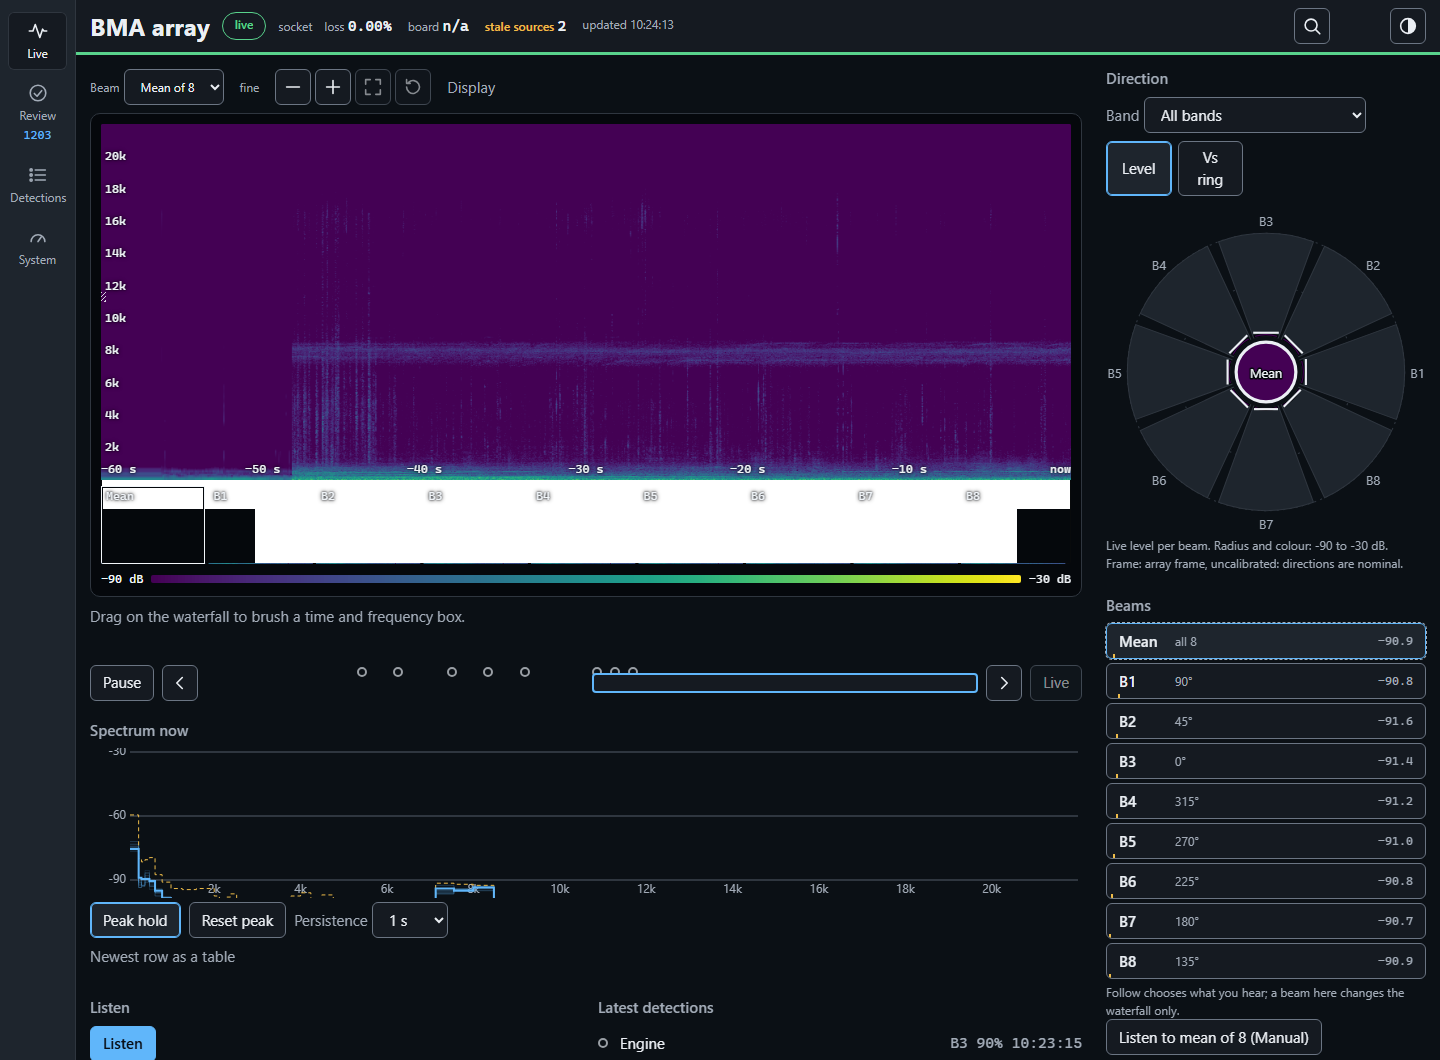
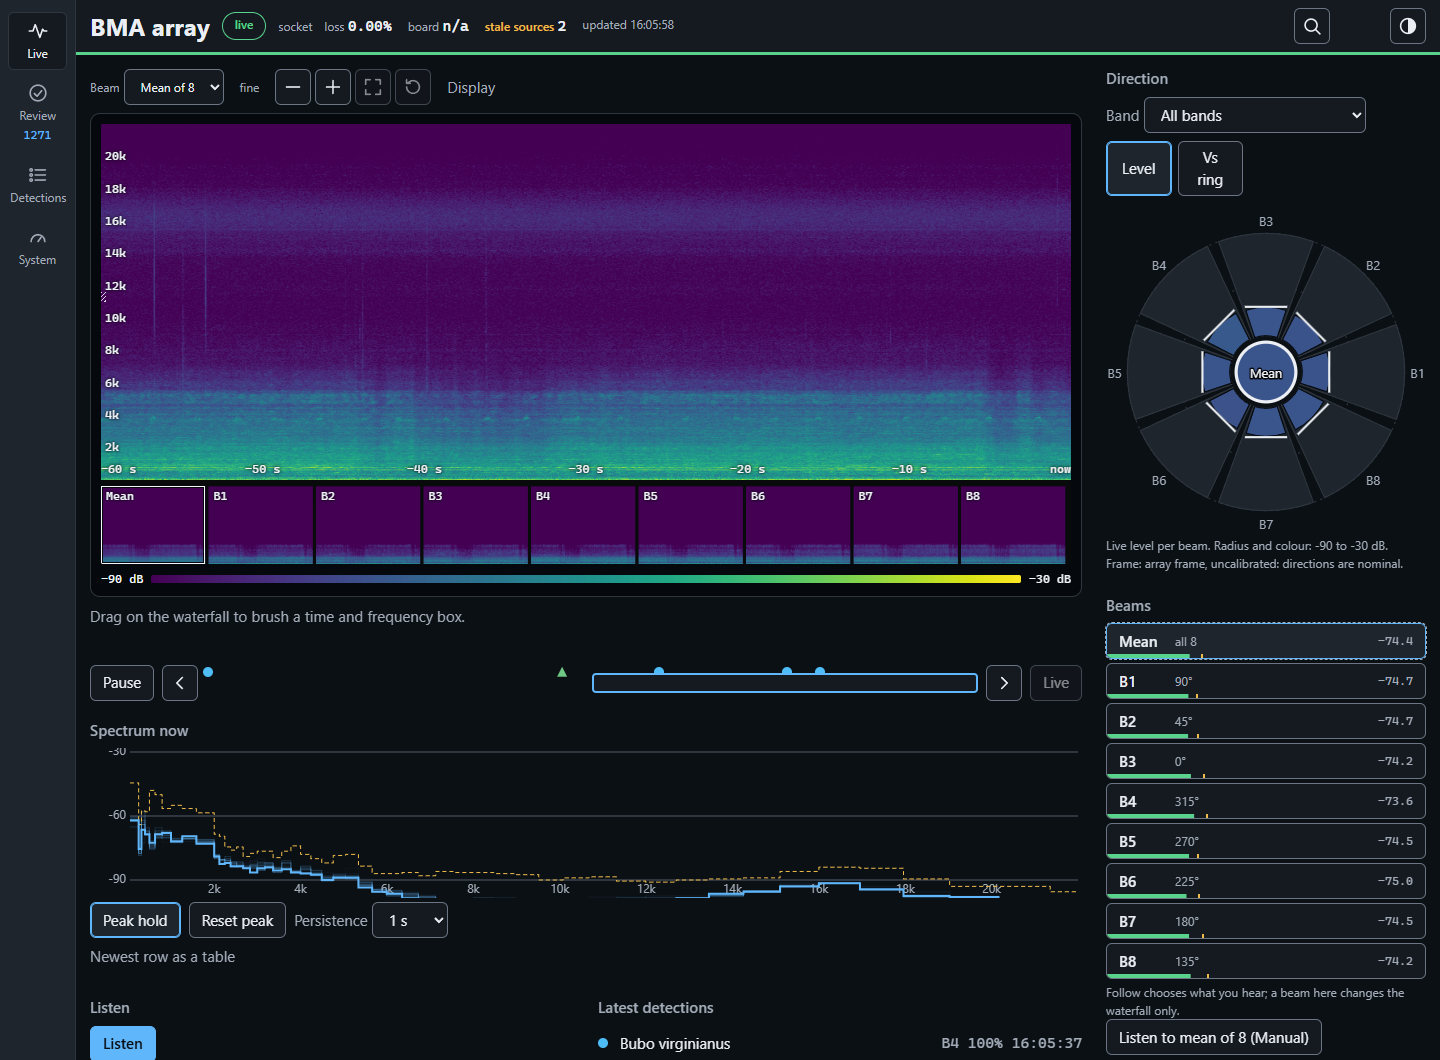
Part 9 draft: new live-view screenshot, caption the 100% score
Re-shot p09-live (light and dark) with a full 60 s waterfall and the
per-beam strip populated. The caption now says the 100% on the
detection row is a sigmoid of the classifier's raw score, a ranking
and not a confidence.

fig_p09_screens.py: launch full Chromium (the headless shell renders
the WebGL strip blank), poll until every tile is painted instead of a
fixed sleep, and allow BMA_SHOTS_DIR / BMA_FIGURES_DIR overrides.

diff --git a/_figures/fig_p09_screens.py b/_figures/fig_p09_screens.py
@@ -19,10 +19,19 @@ import os
 import sys
 from pathlib import Path
 
-sys.path.insert(0, str(Path(__file__).resolve().parent))
-from bmafig import THEMES, out_path  # noqa: E402
+sys.path.insert(0, os.environ.get("BMA_FIGURES_DIR", str(Path(__file__).resolve().parent)))
+from bmafig import THEMES, out_path as _repo_out_path  # noqa: E402
+
+
+def out_path(name, theme, ext="svg"):
+    """BMA_SHOTS_DIR redirects captures away from images/bma/ (e.g. for review before copying)."""
+    d = os.environ.get("BMA_SHOTS_DIR")
+    return Path(d) / f"{name}-{theme}.{ext}" if d else _repo_out_path(name, theme, ext)
+
 
 URL = "https://127.0.0.1:48500/"
+TILE_FILL_MIN = 0.90      # every per-beam tile must be at least this fraction painted
+TILE_TIMEOUT_S = 600
 SHOTS = ("p09-live", "p09-det", "p09-targets", "p09-fleet", "p09-sys")
 
 SCRUB_JS = r"""() => {
@@ -76,6 +85,53 @@ def _scrub(pg):
         raise RuntimeError("unmasked text matched %s; not saving" % leaks)
 
 
+def _tile_fill(pg):
+    """Painted fraction of each per-beam tile under the waterfall. The tiles are drawn into the WebGL canvas, so this
+    measures the composited screenshot of each .tile box. A pixel counts as painted when it is a colormap colour
+    (channel spread max-min > 25); the unpainted strip is white or near-black (grey, spread ~0). A column counts as
+    live when its painted pixels also vary (luminance std > 2), so a flat no-data fill does not pass.
+    Returns [(painted_fraction, live_column_fraction)] per tile."""
+    import io
+    import numpy as np
+    from PIL import Image
+
+    # crop the same viewport screenshot that gets saved (page at scroll 0, so bounding_box() == image coords):
+    # an element screenshot can show the strip while the full viewport capture does not
+    shot = np.asarray(Image.open(io.BytesIO(pg.screenshot())).convert("RGB")).astype(np.int16)
+    fills = []
+    for t in pg.locator("#tiles .tile").all():
+        bb = t.bounding_box()
+        if not bb or bb["width"] < 8 or bb["height"] < 8:
+            fills.append((0.0, 0.0))
+            continue
+        x0, y0 = int(bb["x"]) + 2, int(bb["y"]) + 2
+        im = shot[y0:int(bb["y"] + bb["height"]) - 2, x0:int(bb["x"] + bb["width"]) - 2]
+        painted = (im.max(axis=2) - im.min(axis=2)) > 25
+        lum = im.mean(axis=2)
+        live_cols = (painted.mean(axis=0) > 0.9) & (lum.std(axis=0) > 2)
+        fills.append((float(painted.mean()), float(live_cols.mean())))
+    return fills
+
+
+def _wait_tiles(pg, theme):
+    """Poll until every per-beam tile is painted (no fixed sleep). Raises on timeout."""
+    import time
+
+    pg.wait_for_selector("#tiles .tile", state="attached", timeout=60000)
+    pg.evaluate("window.scrollTo(0, 0)")
+    t0 = time.monotonic()
+    while True:
+        f = _tile_fill(pg)
+        el = time.monotonic() - t0
+        print(f"[{theme}] t={el:5.0f}s tiles={len(f)} painted/live "
+              f"[{' '.join('%.2f/%.2f' % x for x in f)}]", flush=True)
+        if len(f) == 9 and min(min(x) for x in f) >= TILE_FILL_MIN:
+            return f
+        if el > TILE_TIMEOUT_S:
+            raise RuntimeError(f"per-beam strip not populated after {TILE_TIMEOUT_S} s; not saving")
+        pg.wait_for_timeout(5000)
+
+
 def _open_panel(pg, pid):
     pg.click('button[data-view="live"]')
     pg.wait_for_timeout(800)
@@ -108,17 +164,20 @@ def capture():
     hdr = _auth_header()
     written = []
     with sync_playwright() as pw:
-        b = pw.chromium.launch()
+        # full Chromium (new headless): the default headless shell composites the WebGL per-beam strip as blank
+        # in viewport screenshots
+        b = pw.chromium.launch(channel="chromium")
         for theme in THEMES:
             ctx = b.new_context(ignore_https_errors=True, color_scheme=theme,
                                 viewport={"width": 1440, "height": 1060},
                                 extra_http_headers={"Authorization": hdr})
             pg = ctx.new_page()
             pg.goto(URL + "#live", wait_until="networkidle", timeout=30000)
-            pg.wait_for_timeout(14000)
             if pg.evaluate("document.documentElement.dataset.theme || ''") not in ("", theme):
                 pg.click("#theme")
                 pg.wait_for_timeout(800)
+            _wait_tiles(pg, theme)
+            pg.evaluate("window.scrollTo(0, 0)")
 
             _scrub(pg)
             pg.screenshot(path=str(out_path("p09-live", theme, "png")))

diff --git a/_drafts/bma-09-the-hub-and-web-dashboard.md b/_drafts/bma-09-the-hub-and-web-dashboard.md
@@ -56,7 +56,7 @@ A Python web service tails the analysis logs and the fleet feed, handles rotatio
 ![Live view: 60-second waterfall, spectrum with peak hold, per-beam level rose and beam list, and latest detections.](/images/bma/p09-live-light.png){: .only-light}
 ![Live view: 60-second waterfall, spectrum with peak hold, per-beam level rose and beam list, and latest detections.](/images/bma/p09-live-dark.png){: .only-dark}
 
-The live view. The per-beam strip under the waterfall was still loading when I grabbed this.
+The live view, with the last 60 seconds in the waterfall and one small waterfall per beam under it. Ignore the 100% on the detection: the dashboard runs the classifier's raw score through a sigmoid, and the top score is always big enough to round to 100. It ranks detections; it isn't a confidence.
 
 <video class="bma-av" controls muted loop playsinline preload="none" poster="/images/bma/p09-waterfall-poster.png">
   <source src="/files/bma/p09-waterfall.webm" type="video/webm">
